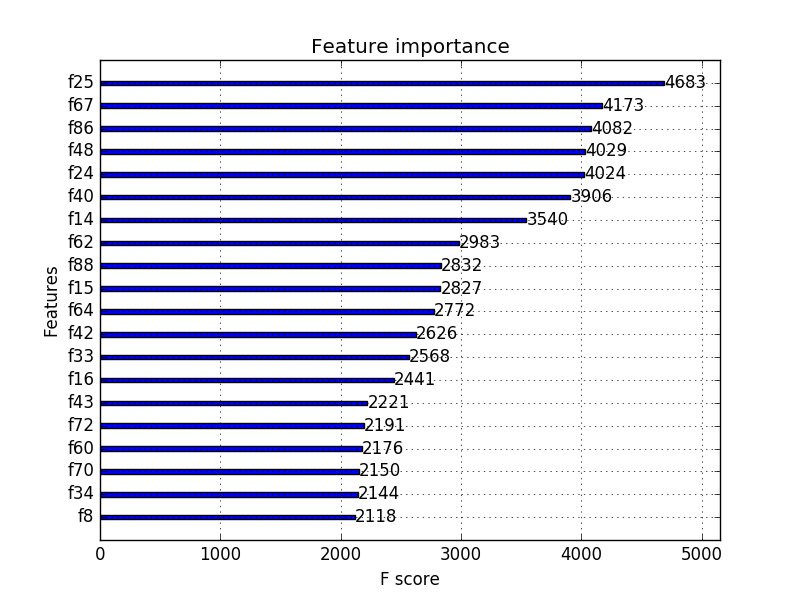
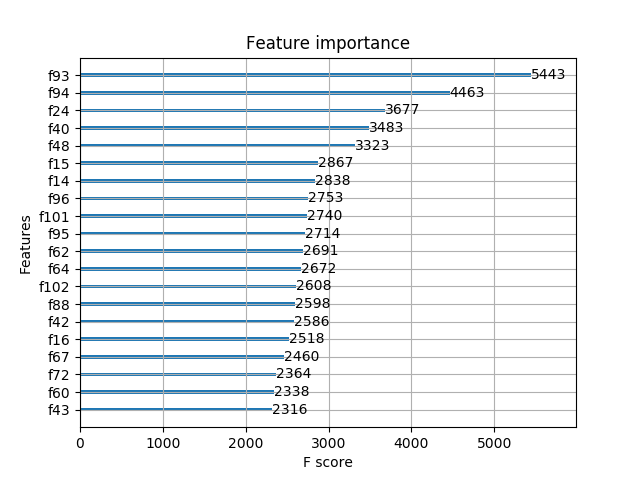
add some generated features

diff --git a/multiclass_classification/train.py b/multiclass_classification/train.py
@@ -17,6 +17,33 @@ from sklearn.preprocessing import label_binarize
 from sklearn.multiclass import OneVsRestClassifier
 from scipy import interp
 
+def addFea(train_Xn,train_X,num1,num2):
+    train_var = tran(train_X[:, 1:], np.var, axis=1)
+    train_zero = tran(train_X, np.count_nonzero, axis=1)
+    train_zero.shape = 1,-1
+    train_zero = map(lambda x:94-x, train_zero)
+    train_zero = np.transpose(train_zero)
+    train_add = np.add(train_X[:, num1],train_X[:, num2])
+    train_mul = train_X[:, num1]*train_X[:, num2]
+    train_sub = np.subtract(train_X[:, num1], train_X[:, num2])
+
+    with np.errstate(divide='ignore', invalid='ignore'):
+        train_div = np.true_divide(train_X[:,25],train_X[:,67])
+        train_div[train_div == np.inf] = 0
+        train_div = np.nan_to_num(train_div)
+
+    train_Xn = np.c_[train_Xn, train_var,train_zero,train_add,train_sub,train_mul,train_div ]
+    return train_Xn
+  
+
+def tran(array, func, *args, **kwargs):
+    res = func(array, *args, **kwargs)
+    res.shape = (res.shape[0],1)
+    np.transpose(res)
+    return res
+
+
+
 def normalizer(lst):
     norm = lst
     for i in range(lst.shape[0]):
@@ -39,10 +66,20 @@ train = data[:int(sz[0] * 0.9), :]
 test = data[int(sz[0] * 0.9):, :]
 
 train_X = train[:, :93]
-train_X = normalize(train_X, norm='l2')
+train_Xo = train_X
+
 train_Y = train[:, 94]
+train_X = addFea(train_X,train_Xo,25,67)
+train_X = addFea(train_X,train_Xo,25,86)
+print train_X[0,:]
+
+train_X = normalize(train_X, norm='l2')
 
 test_X = test[:, :93]
+test_Xo = test_X
+test_X = addFea(test_X,test_X,25,67)
+test_X = addFea(test_X,test_Xo,25,86)
+
 test_X = normalize(test_X, norm='l2')
 
 test_Y = test[:, 94]
